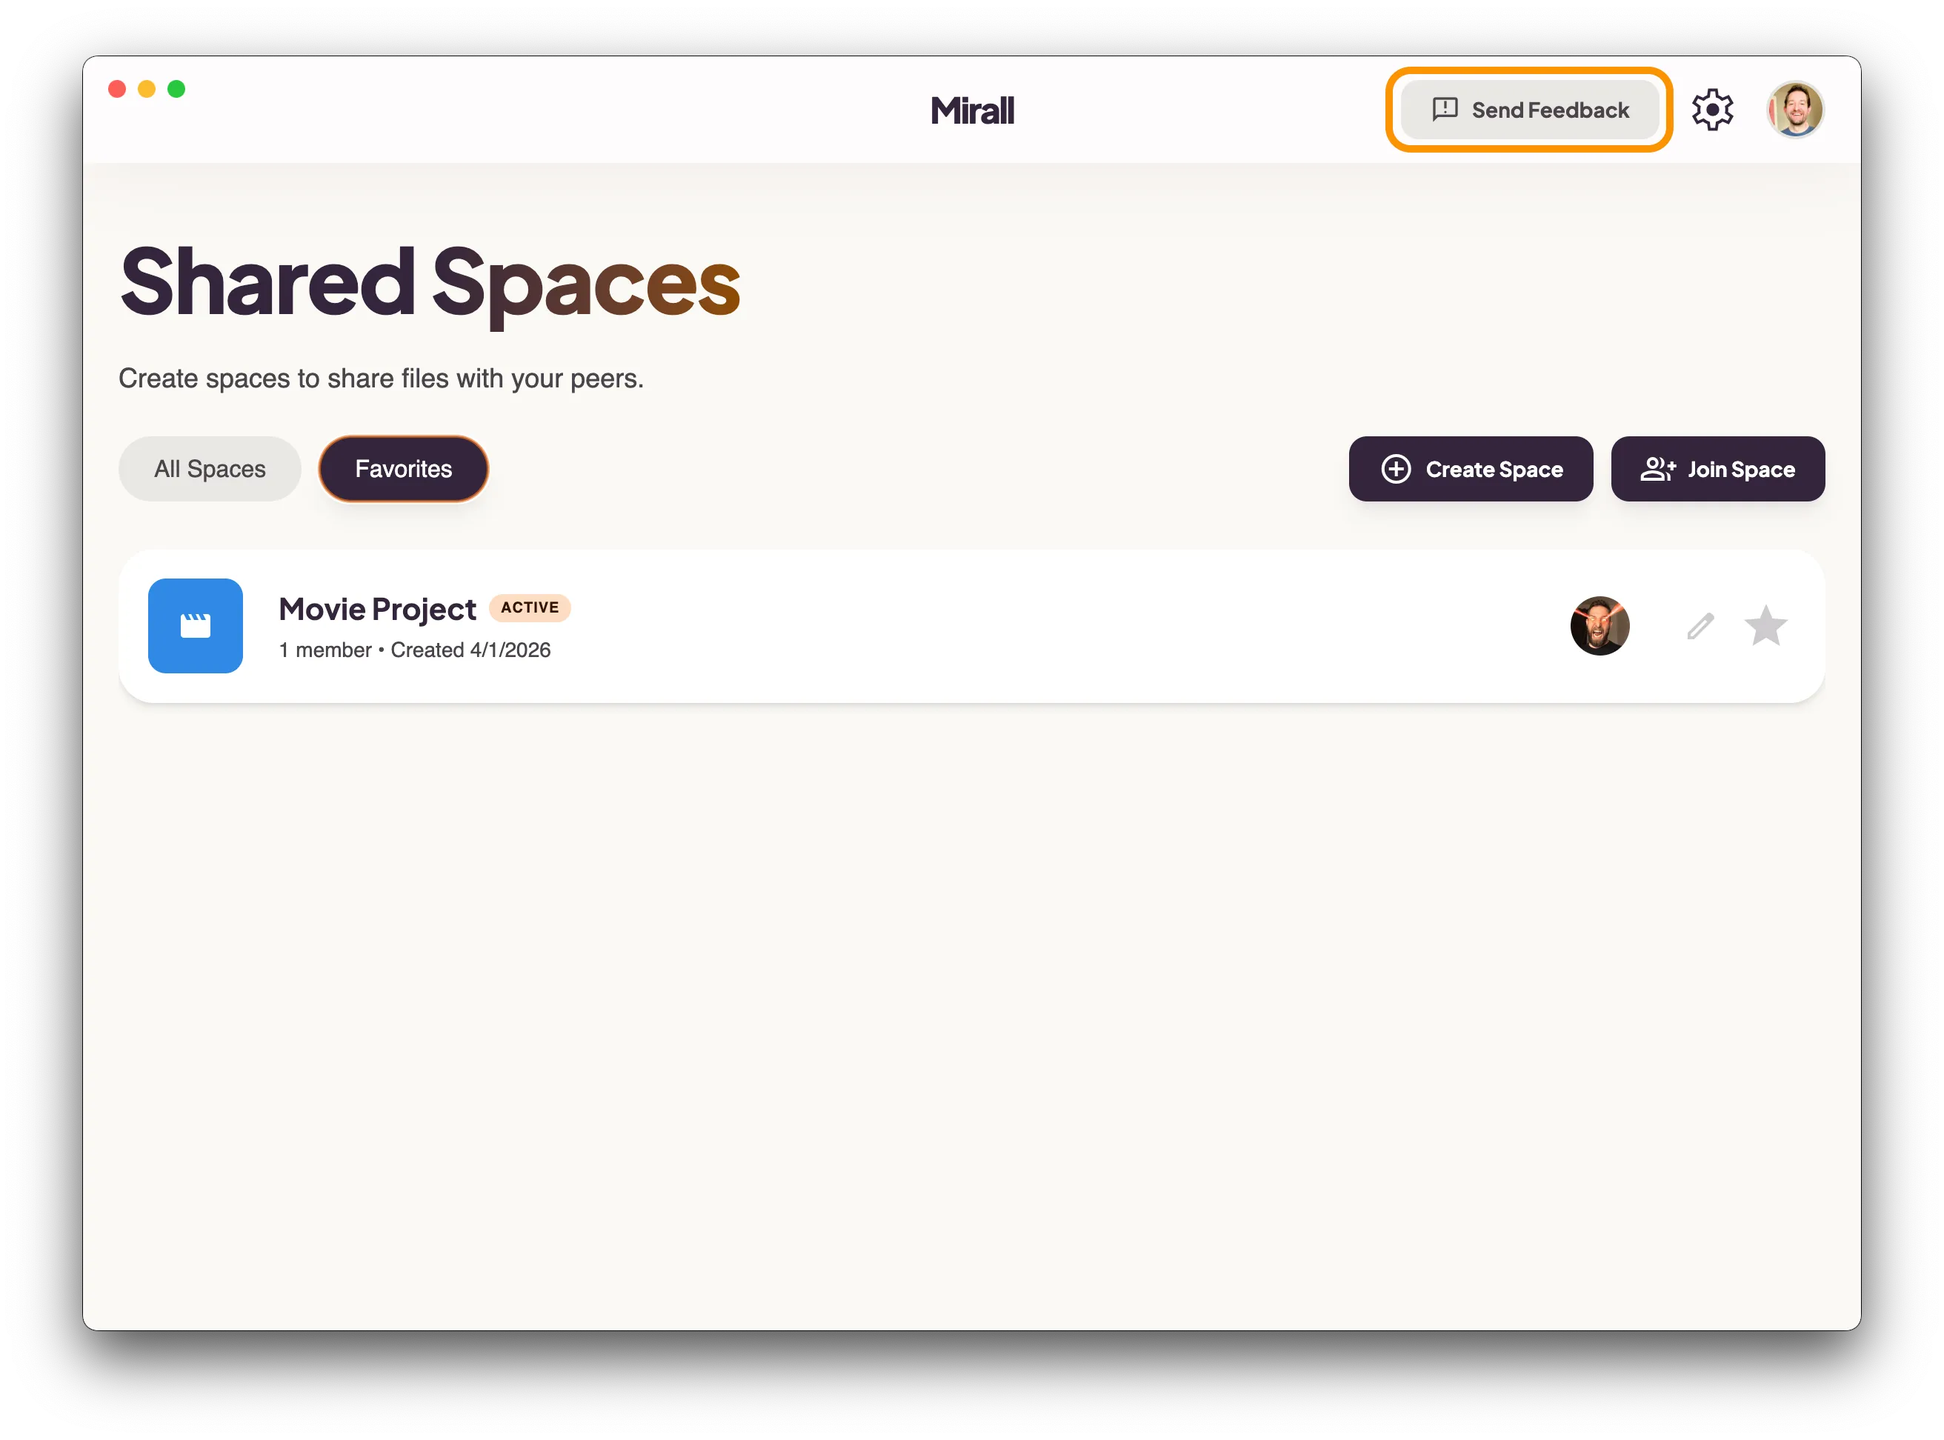
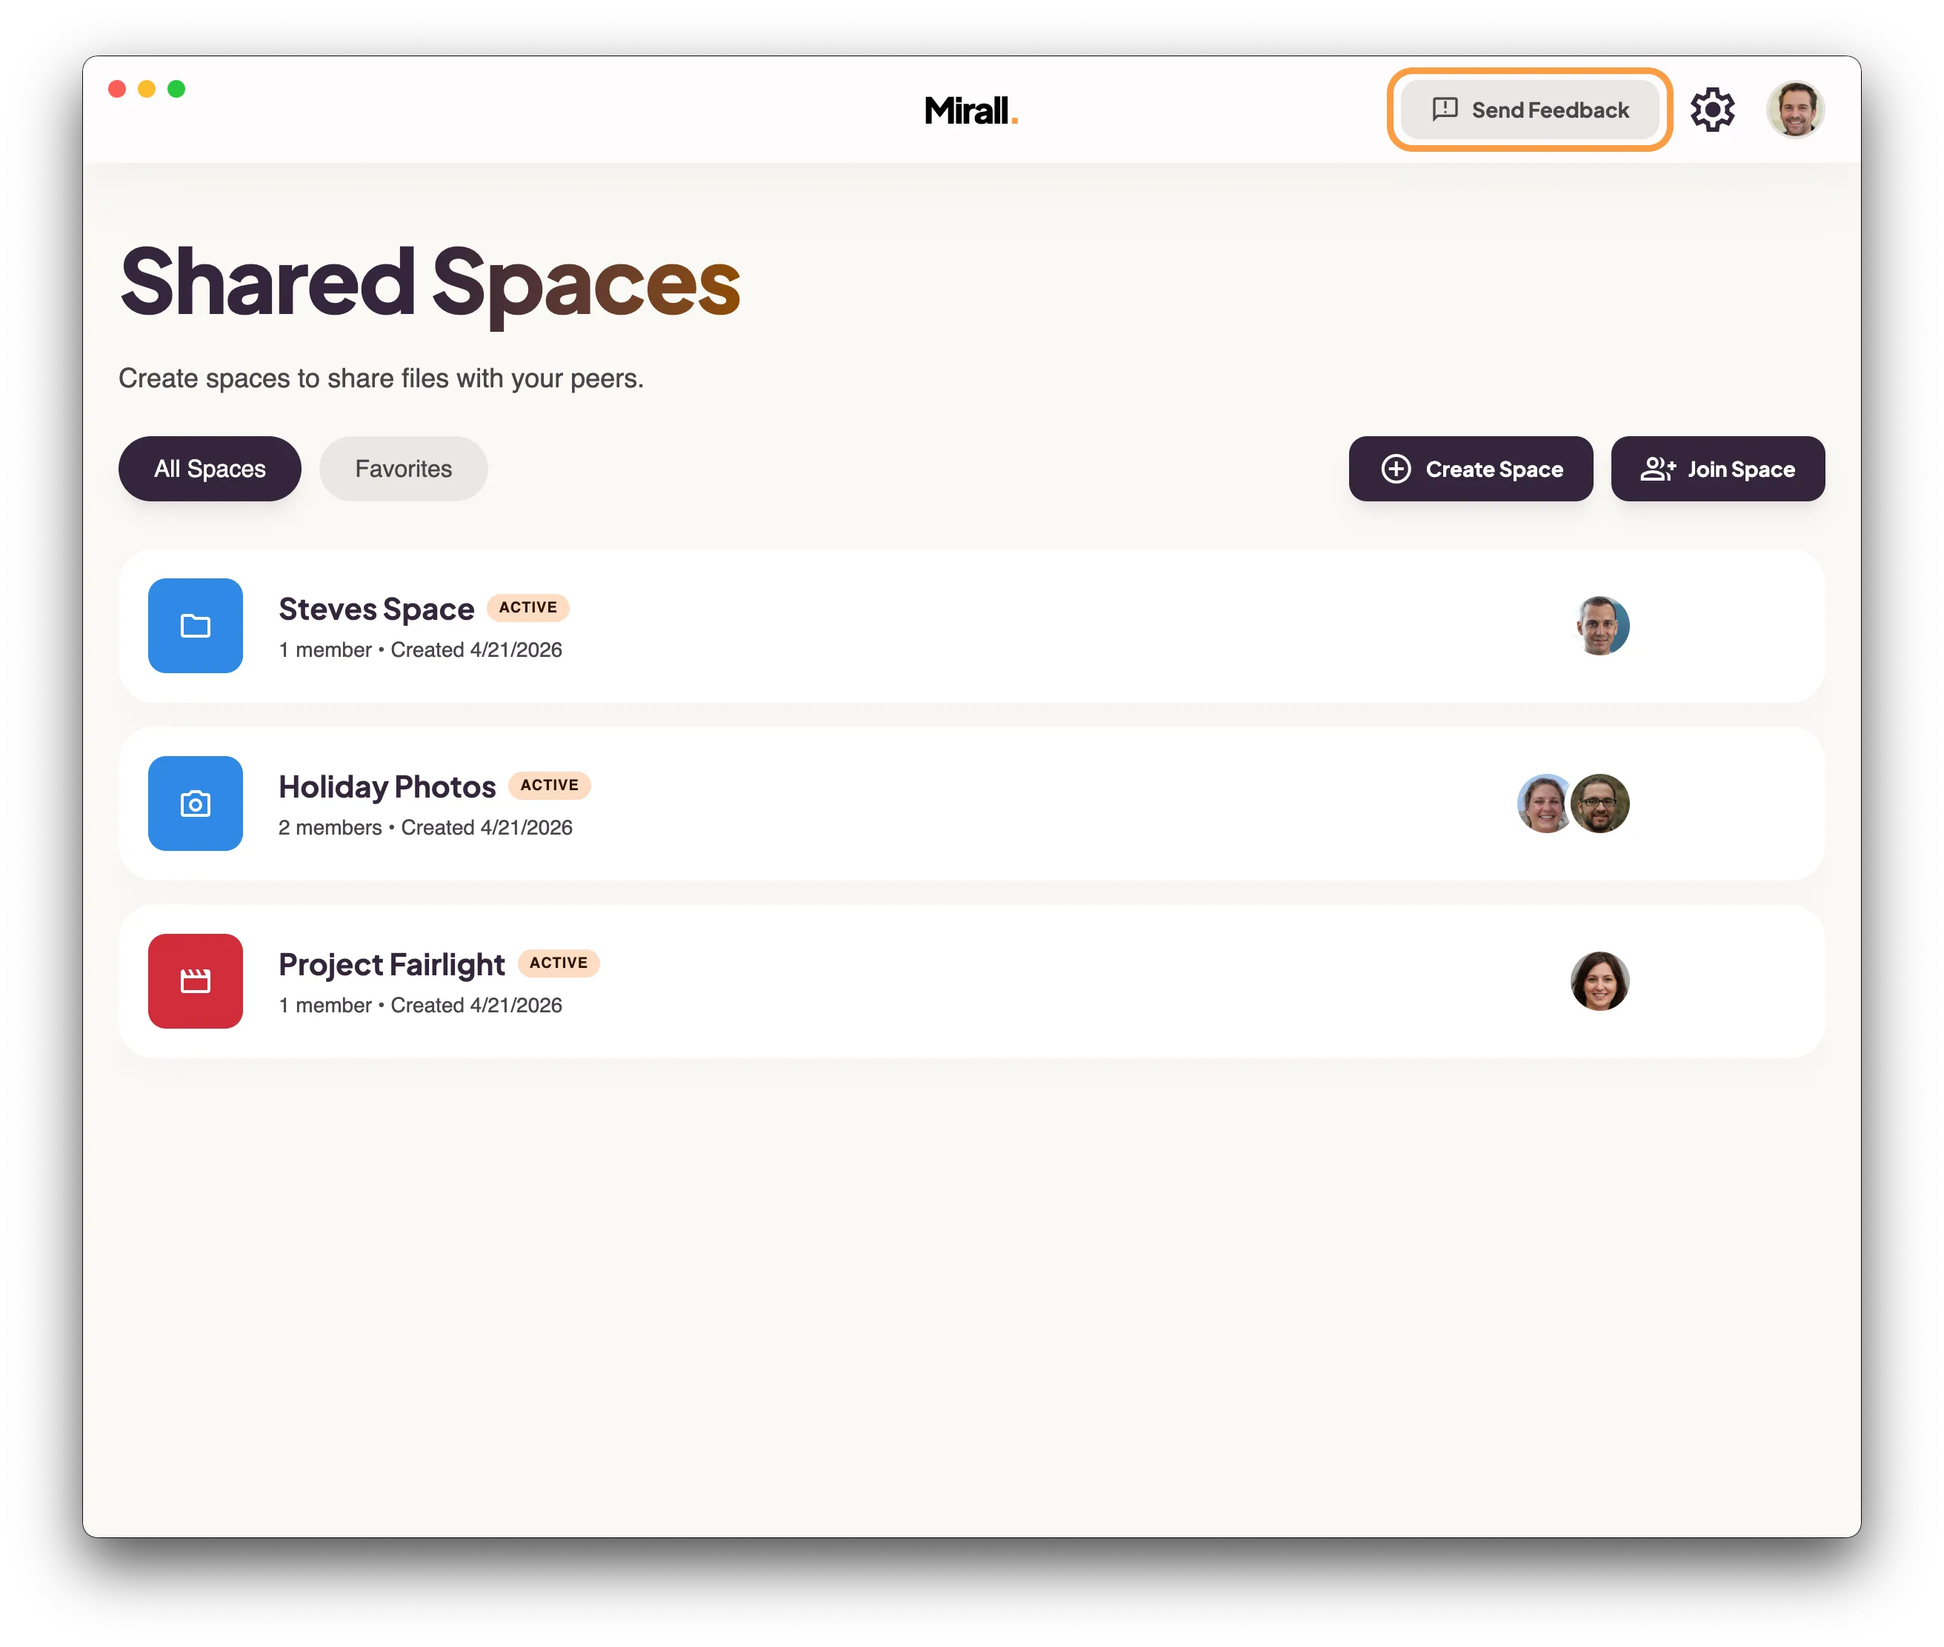
Refresh branding, docs, and site copy
- Adopt Mirall. logo and Plus Jakarta Sans headlines from the app
- Rewrite docs to match current app (spaces, files, members, storage/about)
- Reframe as secure data transfer; drop peer-to-peer and Pear/Holepunch references
- Update screenshots with softer drop shadows
- Fix footer alignment and hero headline line breaks

diff --git a/src/pages/Docs.tsx b/src/pages/Docs.tsx
@@ -7,7 +7,7 @@ function Screenshot({ src, alt }: { src: string; alt: string }) {
     <div className="my-10">
       <img
         className="w-full max-w-3xl mx-auto object-cover"
-        style={{ filter: 'drop-shadow(0 25px 25px rgba(0, 0, 0, 0.08))' }}
+        style={{ filter: 'drop-shadow(0 6px 12px rgba(0, 0, 0, 0.04))' }}
         alt={alt}
         src={src}
       />
@@ -29,6 +29,7 @@ export default function Docs() {
   const creatingSteps = t('docs.spaces.creating.steps', { returnObjects: true }) as string[]
   const joiningSteps = t('docs.spaces.joining.steps', { returnObjects: true }) as string[]
   const fileStatuses = t('docs.files.statuses.items', { returnObjects: true }) as Array<{ status: string; meaning: string }>
+  const fileActions = t('docs.files.actions.items', { returnObjects: true }) as string[]
   const settingsItems = t('docs.settings.items', { returnObjects: true }) as string[]
 
   return (
@@ -50,7 +51,7 @@ export default function Docs() {
             <nav className="bg-surface-container-low rounded-xl p-8 mb-16">
               <h2 className="text-sm font-bold uppercase tracking-[0.1em] text-on-surface-variant mb-4">On this page</h2>
               <ul className="space-y-2">
-                {['gettingStarted', 'spaces', 'files', 'peers', 'settings', 'privacy', 'leaving'].map((key) => (
+                {['gettingStarted', 'spaces', 'files', 'members', 'settings', 'privacy', 'leaving'].map((key) => (
                   <li key={key}>
                     <a href={`#${key}`} className="text-primary hover:text-emerald-500 transition-colors font-medium">
                       {t(`docs.${key}.title`)}
@@ -63,6 +64,7 @@ export default function Docs() {
             <Section id="gettingStarted">
               <h2 className="text-3xl font-black font-headline mb-4">{t('docs.gettingStarted.title')}</h2>
               <p className="text-lg text-on-surface-variant leading-relaxed">{t('docs.gettingStarted.description')}</p>
+              <Screenshot src="/docs-getting-started.webp" alt={t('docs.gettingStarted.screenshotAlt')} />
             </Section>
 
             <Section id="spaces">
@@ -84,7 +86,7 @@ export default function Docs() {
               </ol>
 
               <h3 className="text-xl font-bold mb-3">{t('docs.spaces.joining.title')}</h3>
-              <ol className="space-y-3">
+              <ol className="space-y-3 mb-8">
                 {joiningSteps.map((step, i) => (
                   <li key={i} className="flex items-start gap-4">
                     <span className="w-7 h-7 rounded-full hero-gradient text-on-primary flex items-center justify-center font-bold text-xs shrink-0">
@@ -94,13 +96,18 @@ export default function Docs() {
                   </li>
                 ))}
               </ol>
+
+              <div className="bg-surface-container-low rounded-xl p-8">
+                <h3 className="text-xl font-bold mb-3">{t('docs.spaces.managing.title')}</h3>
+                <p className="text-on-surface-variant leading-relaxed">{t('docs.spaces.managing.description')}</p>
+              </div>
             </Section>
 
             <Section id="files">
               <h2 className="text-3xl font-black font-headline mb-4">{t('docs.files.title')}</h2>
               <p className="text-lg text-on-surface-variant leading-relaxed mb-8">{t('docs.files.description')}</p>
 
-              <Screenshot src="/docs-space-view.webp" alt="Mirall Space View showing shared files, drop zone, storage indicator, and peers" />
+              <Screenshot src="/docs-space-view.webp" alt={t('docs.files.screenshotAlt')} />
 
               <div className="bg-surface-container-low rounded-xl p-8 mb-8">
                 <h3 className="text-xl font-bold mb-3">{t('docs.files.uploading.title')}</h3>
@@ -112,27 +119,42 @@ export default function Docs() {
                 <p className="text-on-surface-variant leading-relaxed">{t('docs.files.downloading.description')}</p>
               </div>
 
+              <div className="bg-surface-container-low rounded-xl p-8 mb-8">
+                <h3 className="text-xl font-bold mb-3">{t('docs.files.transfers.title')}</h3>
+                <p className="text-on-surface-variant leading-relaxed">{t('docs.files.transfers.description')}</p>
+              </div>
+
               <h3 className="text-xl font-bold mb-4">{t('docs.files.statuses.title')}</h3>
-              <div className="space-y-3">
+              <div className="space-y-3 mb-10">
                 {fileStatuses.map((item, i) => (
                   <div key={i} className="flex items-start gap-4">
-                    <span className="font-bold text-on-surface min-w-[110px] shrink-0">{item.status}</span>
+                    <span className="font-bold text-on-surface min-w-[140px] shrink-0">{item.status}</span>
                     <span className="text-on-surface-variant">{item.meaning}</span>
                   </div>
                 ))}
               </div>
+
+              <h3 className="text-xl font-bold mb-4">{t('docs.files.actions.title')}</h3>
+              <ul className="space-y-2">
+                {fileActions.map((item, i) => (
+                  <li key={i} className="flex items-start gap-3">
+                    <span className="material-symbols-outlined text-primary text-lg mt-0.5">check</span>
+                    <span className="text-on-surface-variant">{item}</span>
+                  </li>
+                ))}
+              </ul>
             </Section>
 
-            <Section id="peers">
-              <h2 className="text-3xl font-black font-headline mb-4">{t('docs.peers.title')}</h2>
-              <p className="text-lg text-on-surface-variant leading-relaxed mb-8">{t('docs.peers.description')}</p>
+            <Section id="members">
+              <h2 className="text-3xl font-black font-headline mb-4">{t('docs.members.title')}</h2>
+              <p className="text-lg text-on-surface-variant leading-relaxed mb-8">{t('docs.members.description')}</p>
 
               <div className="bg-surface-container-low rounded-xl p-8">
-                <h3 className="text-xl font-bold mb-3">{t('docs.peers.inviting.title')}</h3>
-                <p className="text-on-surface-variant leading-relaxed">{t('docs.peers.inviting.description')}</p>
+                <h3 className="text-xl font-bold mb-3">{t('docs.members.inviting.title')}</h3>
+                <p className="text-on-surface-variant leading-relaxed">{t('docs.members.inviting.description')}</p>
               </div>
 
-              <Screenshot src="/docs-invite.webp" alt="Mirall Invite to Space modal showing invite code and copy button" />
+              <Screenshot src="/docs-invite.webp" alt={t('docs.members.inviting.title')} />
             </Section>
 
             <Section id="settings">
@@ -148,6 +170,16 @@ export default function Docs() {
               </ul>
 
               <Screenshot src="/docs-settings.webp" alt={t('docs.settings.screenshotAlt')} />
+
+              <div className="bg-surface-container-low rounded-xl p-8 mb-8 mt-10">
+                <h3 className="text-xl font-bold mb-3">{t('docs.settings.storage.title')}</h3>
+                <p className="text-on-surface-variant leading-relaxed">{t('docs.settings.storage.description')}</p>
+              </div>
+
+              <div className="bg-surface-container-low rounded-xl p-8">
+                <h3 className="text-xl font-bold mb-3">{t('docs.settings.about.title')}</h3>
+                <p className="text-on-surface-variant leading-relaxed">{t('docs.settings.about.description')}</p>
+              </div>
             </Section>
 
             <Section id="privacy">

diff --git a/src/components/Footer.tsx b/src/components/Footer.tsx
@@ -1,5 +1,6 @@
 import { useTranslation } from 'react-i18next'
 import { Link, useNavigate, useLocation } from 'react-router-dom'
+import BrandLogo from './BrandLogo'
 
 function HashLink({ to, className, children }: { to: string; className: string; children: React.ReactNode }) {
   const navigate = useNavigate()
@@ -25,29 +26,27 @@ export default function Footer() {
   return (
     <footer className="bg-slate-50 w-full py-12 px-8">
       <div className="grid grid-cols-1 md:grid-cols-2 lg:grid-cols-4 gap-8 max-w-7xl mx-auto">
-        <div className="space-y-6">
-          <span className="font-bold text-emerald-900 text-2xl font-headline tracking-tighter">
-            {t('brand')}
-          </span>
+        <div className="space-y-4">
+          <BrandLogo />
           <p className="text-slate-500 font-body text-sm leading-relaxed">{t('footer.tagline')}</p>
         </div>
         <div>
           <p className="font-bold mb-6 text-on-surface">{t('footer.product.title')}</p>
-          <ul className="space-y-4 font-body text-sm">
+          <ul className="space-y-3 font-body text-sm">
             <li><HashLink className="text-slate-500 hover:text-emerald-600 transition-all" to="/#features">{t('footer.product.features')}</HashLink></li>
             <li><Link className="text-slate-500 hover:text-emerald-600 transition-all" to="/download">{t('footer.product.download')}</Link></li>
           </ul>
         </div>
         <div>
           <p className="font-bold mb-6 text-on-surface">{t('footer.resources.title')}</p>
-          <ul className="space-y-4 font-body text-sm">
+          <ul className="space-y-3 font-body text-sm">
             <li><Link className="text-slate-500 hover:text-emerald-600 transition-all" to="/docs">{t('footer.resources.docs')}</Link></li>
             <li><Link className="text-slate-500 hover:text-emerald-600 transition-all" to="/support">{t('footer.resources.support')}</Link></li>
           </ul>
         </div>
         <div>
           <p className="font-bold mb-6 text-on-surface">{t('footer.legal.title')}</p>
-          <ul className="space-y-4 font-body text-sm">
+          <ul className="space-y-3 font-body text-sm">
             <li><a className="text-slate-500 hover:text-emerald-600 transition-all" href="#">{t('footer.legal.privacy')}</a></li>
             <li><a className="text-slate-500 hover:text-emerald-600 transition-all" href="#">{t('footer.legal.terms')}</a></li>
           </ul>

diff --git a/src/components/Hero.tsx b/src/components/Hero.tsx
@@ -11,7 +11,7 @@ export default function Hero() {
           <span className="uppercase tracking-[0.1em] text-primary font-bold mb-6 block text-sm">
             {t('hero.label')}
           </span>
-          <h1 className="text-6xl font-black font-headline text-on-surface leading-[1.1] tracking-tighter mb-8">
+          <h1 className="text-6xl font-black font-headline text-on-surface leading-[1.1] tracking-tighter mb-8 whitespace-pre-line">
             <Trans i18nKey="hero.title">
               The art of <span className="text-primary-container">seamless</span> sharing.
             </Trans>
@@ -33,8 +33,8 @@ export default function Hero() {
           <div className="absolute -top-20 -right-20 w-96 h-96 bg-primary-container/10 rounded-full blur-3xl"></div>
           <div className="absolute -bottom-20 -left-20 w-96 h-96 bg-secondary-container/10 rounded-full blur-3xl"></div>
           <img
-            className="w-full h-auto object-cover relative" style={{ filter: 'drop-shadow(0 25px 25px rgba(0, 0, 0, 0.08))' }}
-            alt="Mirall desktop app showing Shared Spaces with active peer connections"
+            className="w-full h-auto object-cover relative" style={{ filter: 'drop-shadow(0 6px 12px rgba(0, 0, 0, 0.04))' }}
+            alt="Mirall desktop app showing Shared Spaces with active device connections"
             src="/hero-screenshot.webp"
             width={1400}
             height={1039}

diff --git a/src/components/Navbar.tsx b/src/components/Navbar.tsx
@@ -1,5 +1,6 @@
 import { useTranslation } from 'react-i18next'
 import { Link, useNavigate, useLocation } from 'react-router-dom'
+import BrandLogo from './BrandLogo'
 
 function HashLink({ to, className, children }: { to: string; className: string; children: React.ReactNode }) {
   const navigate = useNavigate()
@@ -26,8 +27,8 @@ export default function Navbar() {
     <header className="fixed top-0 w-full z-50 glass-nav shadow-sm">
       <nav className="flex justify-between items-center px-8 h-20 max-w-screen-2xl mx-auto">
         <div className="flex items-center gap-12">
-          <Link to="/" className="text-2xl font-black text-emerald-700 font-headline tracking-tighter flex items-center gap-2">
-            {t('brand')}
+          <Link to="/" className="flex items-center gap-2">
+            <BrandLogo />
             <span className="text-[10px] font-bold uppercase tracking-wider bg-emerald-100 text-emerald-700 px-1.5 py-0.5 rounded-full leading-none">
               {t('beta')}
             </span>

diff --git a/src/components/Features.tsx b/src/components/Features.tsx
@@ -2,7 +2,7 @@ import { useTranslation } from 'react-i18next'
 
 const featureCards = [
   { key: 'spaces', icon: 'workspaces', iconBg: 'bg-emerald-50', iconColor: 'text-primary', hoverBg: 'group-hover:bg-primary' },
-  { key: 'p2p', icon: 'swap_horiz', iconBg: 'bg-purple-50', iconColor: 'text-tertiary', hoverBg: 'group-hover:bg-tertiary' },
+  { key: 'direct', icon: 'swap_horiz', iconBg: 'bg-purple-50', iconColor: 'text-tertiary', hoverBg: 'group-hover:bg-tertiary' },
   { key: 'encrypted', icon: 'lock', iconBg: 'bg-blue-50', iconColor: 'text-secondary', hoverBg: 'group-hover:bg-secondary' },
   { key: 'inviteOnly', icon: 'badge', iconBg: 'bg-emerald-50', iconColor: 'text-primary', hoverBg: 'group-hover:bg-primary' },
   { key: 'explicitDownload', icon: 'download_for_offline', iconBg: 'bg-purple-50', iconColor: 'text-tertiary', hoverBg: 'group-hover:bg-tertiary' },

diff --git a/index.html b/index.html
@@ -4,8 +4,8 @@
     <meta charset="UTF-8" />
     <link rel="icon" type="image/svg+xml" href="/favicon.svg" />
     <meta name="viewport" content="width=device-width, initial-scale=1.0" />
-    <meta name="description" content="Mirall is a peer-to-peer file sharing app for teams. No cloud, no accounts — share files directly between devices, encrypted and serverless." />
-    <title>Mirall — Peer-to-Peer File Sharing</title>
+    <meta name="description" content="Mirall is a secure data transfer app for teams. Move files directly between devices — encrypted end-to-end, no cloud, no accounts." />
+    <title>Mirall — Secure Data Transfer</title>
   </head>
   <body class="bg-background font-body text-on-surface overflow-x-hidden">
     <div id="root"></div>

diff --git a/src/index.css b/src/index.css
@@ -1,5 +1,6 @@
 @import "tailwindcss";
 @import "@fontsource-variable/manrope";
+@import "@fontsource-variable/plus-jakarta-sans";
 
 @font-face {
   font-family: "Material Symbols Outlined";
@@ -9,9 +10,9 @@
 }
 
 @theme {
-  --font-headline: "Manrope", sans-serif;
-  --font-body: "Manrope", sans-serif;
-  --font-label: "Manrope", sans-serif;
+  --font-headline: "Plus Jakarta Sans Variable", "Plus Jakarta Sans", sans-serif;
+  --font-body: "Manrope Variable", "Manrope", sans-serif;
+  --font-label: "Manrope Variable", "Manrope", sans-serif;
 
   --color-error-container: #ffdad6;
   --color-on-surface: #191c1e;

diff --git a/src/pages/Support.tsx b/src/pages/Support.tsx
@@ -25,7 +25,7 @@ export default function Support() {
             <div className="relative mb-16">
               <img
                 className="w-full object-cover"
-                style={{ filter: 'drop-shadow(0 25px 25px rgba(0, 0, 0, 0.08))' }}
+                style={{ filter: 'drop-shadow(0 6px 12px rgba(0, 0, 0, 0.04))' }}
                 alt={t('support.screenshotAlt')}
                 src="/support-screenshot.webp"
               />

diff --git a/src/components/BrandLogo.tsx b/src/components/BrandLogo.tsx
@@ -1,0 +1,14 @@
+import { useTranslation } from 'react-i18next'
+
+interface BrandLogoProps {
+  className?: string
+}
+
+export default function BrandLogo({ className = 'text-2xl' }: BrandLogoProps) {
+  const { t } = useTranslation()
+  return (
+    <span className={`font-extrabold text-black tracking-tighter font-headline ${className}`}>
+      {t('brand')}<span className="text-[#fd9c42]">.</span>
+    </span>
+  )
+}
